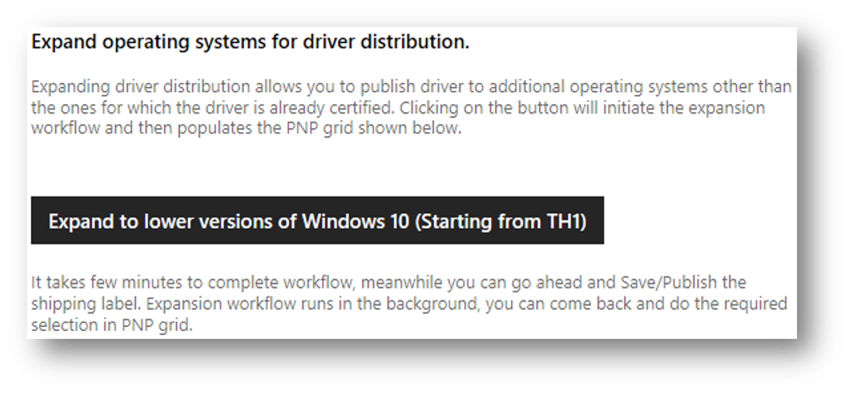
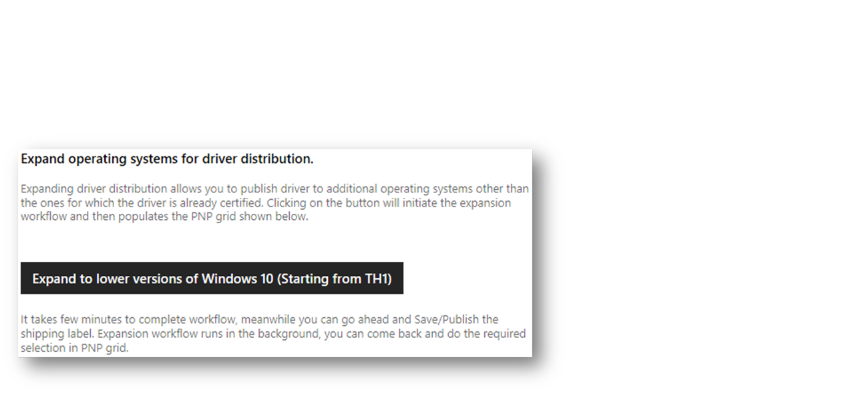
removing blurry photos

diff --git a/windows-driver-docs-pr/dashboard/limit-driver-distribution.md b/windows-driver-docs-pr/dashboard/limit-driver-distribution.md
@@ -48,14 +48,10 @@ There are two types of floors and ceilings supported by the HDC Dashboard:
 
 Restricting a driver's distribution lets you set an OS minimum or maximum level. For Attestation submissions, we use the OS you select at the time of submission as the initial minimum OS. The minimum OS level cannot be set below the drivers certified OS level. You must first use Expansion (described below) to go lower than these initial minimum levels.
 
-![A screen showing the dashboard screen to add a floor to a driver.](images/driver-floor-screen.png)
-
 ### OS Flooring
 *(Minimum OS requirement)*
 
 Use this option when you want a driver to only be offered at and above the listed operating system. For example, selecting an RS4 Floor would mean only systems running Windows 10 1803 (RS4) and above will be offered this driver.
-
-![An image showing the operating systems available to expand coverage to.](images/driver-floor-screen-2.png)
 
 ### OS Ceiling  
 *(Maximum OS requirement)*
@@ -71,7 +67,6 @@ Use this option when you want a driver to only be offered at or below the listed
 
 The minimum OS level is determined by the Products Certified OS level, or the Attested OS level.  If you need to go below this, use driver expansion, described below.
 
-![A screenshot of the ceiling options available to driver submissions.](images/driver-ceiling-screen.png)
 
 ## Driver Expansion
 
